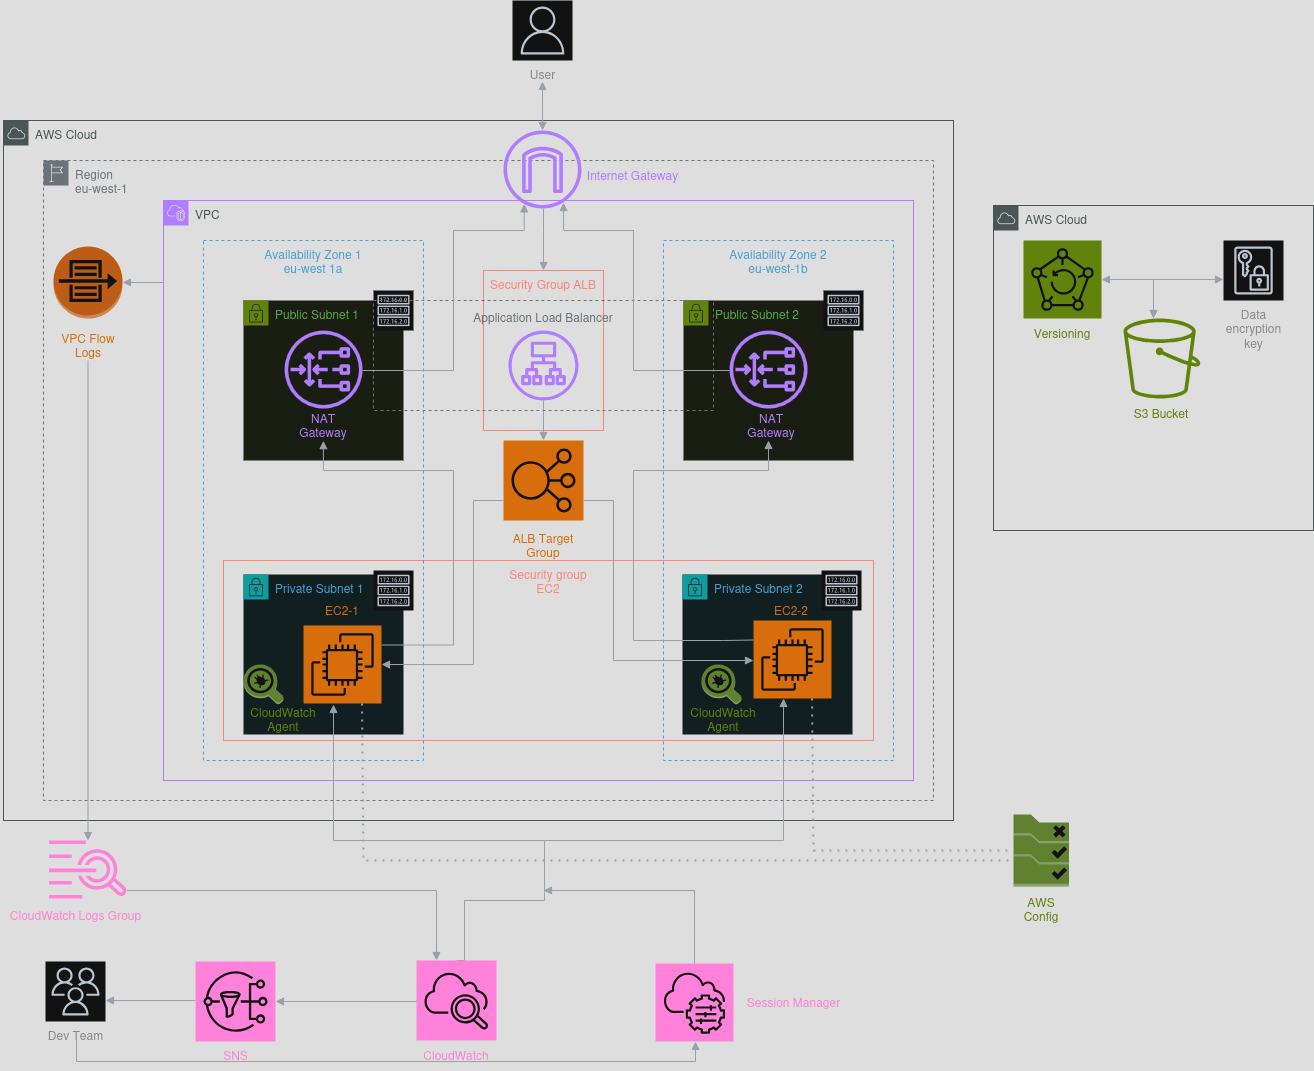
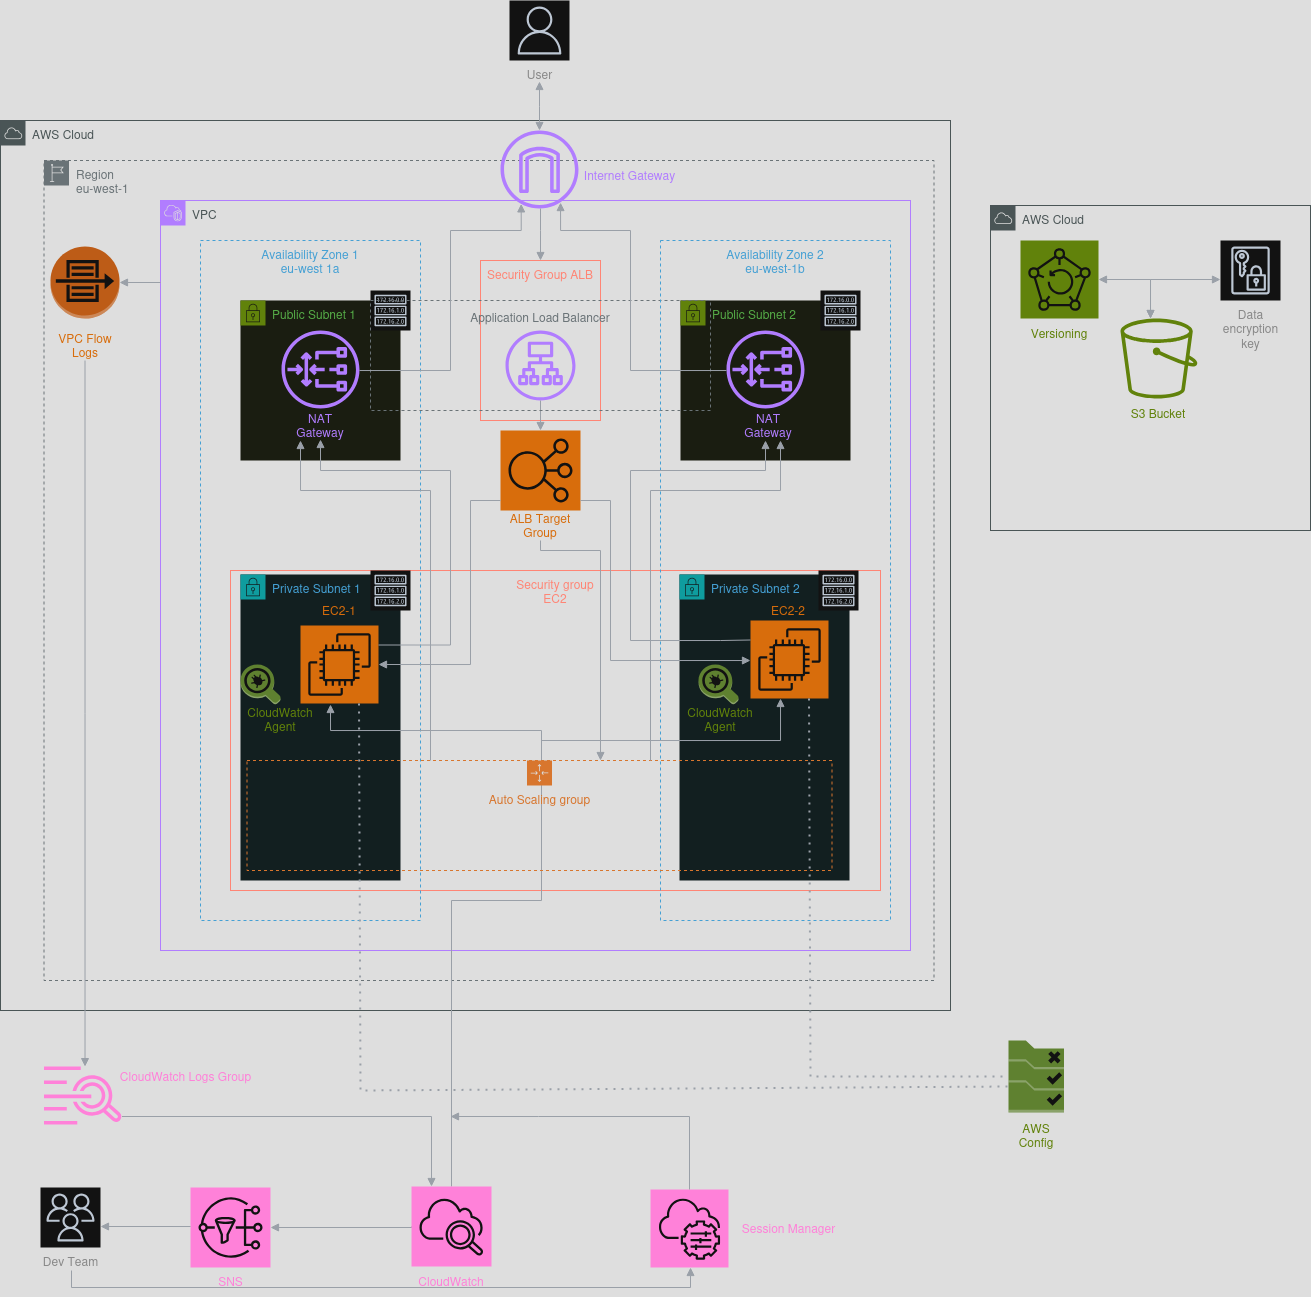
Update documentation

diff --git a/README.md b/README.md
@@ -163,6 +163,32 @@ UUID=11111111-2222-3333-4444-555555555555 /mnt/kaput xfs defaults 0 2
 - After deleting the first and the last rows, I have unmounted the disk from the helper EC2 instance and attached it to the damaged instance.
 - The problem was solved.
 
+### 7.3.2025
+
+## Auto Scaling Group Policies Based on CPU Utilization:
+- CloudWatch alarms and scaling policies to automatically scale EC2 instances in or out based on average CPU utilization
+- Scale Out when:
+    - Average CPU utilization > 70% for 2 minutes
+    - Adds one EC2 instance
+- Scale In when:
+  - Average CPU utilization < 30% for 2 minutes
+  - Removes one EC2 instance
+- I have tested this feature running `stress --cpu $(noproc) --timeout 300` command. I have run this command on both instances inside ASG. Right after running `stress` command the CloudWatch alarmed
+
+![CPU usage ASG](./docs/opts-screenshots/cpu-usgae-asg.png)
+
+- After two minutes in the alarm state, CloudWatch metrics scaling policy triggered `scale out` policy and there was created another EC2 instance inside the same ASG.
+
+![EC2-3](./docs/opts-screenshots/ec2-3.png)
+
+- It was also successfully connected to ALB
+
+![ALB ASG](./docs/opts-screenshots/alb.png)
+
+- After I had stooped `stress` command on both instances, and the CPU usage level decreased <30%, the third instance was automatically deleted.
+
+![EC2-3 deleted](./docs/opts-screenshots/ec2-3-del.png)
+
 ---
 
 ## IaC
